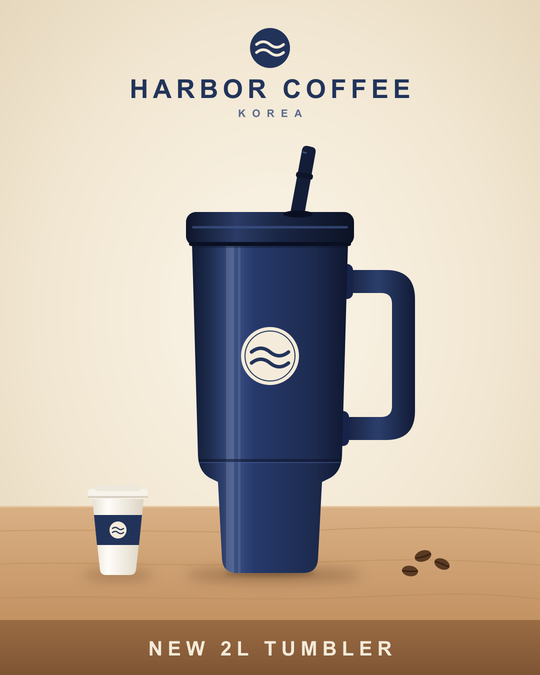
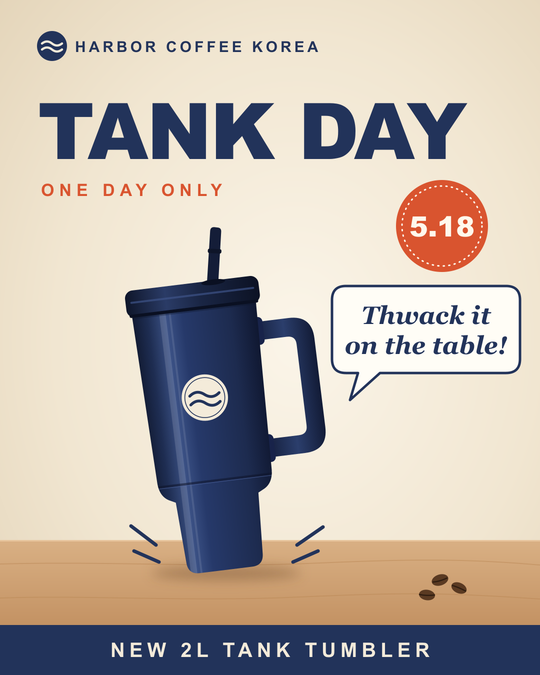
minor changes

diff --git a/src/data/cases/starbucks-korea.ts b/src/data/cases/starbucks-korea.ts
@@ -6,7 +6,7 @@ export const starbucksKorea: CaseFixture = {
   title: "Tank Day",
   subtitle: "Starbucks Korea, May 2026",
   kind: "incident-reconstruction",
-  dek: "A tumbler promotion with nothing wrong in the picture. The product name, the launch date and the slogan together evoked the Gwangju massacre.",
+  dek: "A tumbler promotion with nothing wrong in its imagery. The product name, the launch date and the slogan printed on it together evoked the Gwangju massacre.",
   input: {
     imageUrl: creativeUrl("starbucks-korea"),
     imageFilePath: null,
@@ -41,7 +41,7 @@ export const starbucksKorea: CaseFixture = {
   ],
   ownIncidentIds: ["starbucks-korea-tank-day-2026"],
   creativeNote:
-    "Synthetic reconstruction made for Second Look. This is not Starbucks' original creative. The brand, Harbor Coffee Korea, is fictional on purpose so the analyzer cannot recognize the incident by name and has to find the risk in the product name, launch date and slogan. The image is deliberately clean: no date, no 'tank', no military imagery.",
+    "Synthetic reconstruction made for Second Look. This is not Starbucks' original creative. The brand, Harbor Coffee Korea, is fictional on purpose so the analyzer cannot recognize the incident by name. Like the real promotion, the ad carries the Tank name, the 5.18 date and the slogan. The imagery itself is an ordinary tumbler on a table, with no military imagery, so the risk has to be read from the words and the date.",
   history: {
     whatHappened:
       "In May 2026 Starbucks Korea, majority-owned by Shinsegae Group's E-Mart, promoted a large tumbler size called the 'tank' with a 'Tank Day' on May 18 and the slogan 'Thwack it on the table!'. May 18 is the anniversary of the 1980 Gwangju Democratization Movement, when the military crushed pro-democracy protesters in Gwangju. The slogan echoed the 1987 police claim that student activist Park Jong-chul died after investigators struck a desk, not from torture. The promotion was cancelled within hours. Starbucks Korea CEO Sohn Jeong-hyun was fired. Shinsegae chairman Chung Yong-jin apologized on May 19 and again in a televised statement on May 26. Police opened an investigation after complaints from families of Gwangju victims.",

diff --git a/src/data/spot.ts b/src/data/spot.ts
@@ -1,9 +1,9 @@
 import type { SpotKey } from "@/lib/spot";
 
 /**
- * Answer keys for "Can you spot the issue?", in play order. The two picture risks come
- * first, so by the last case the player is hunting in the image, which is exactly where
- * the real failure wasn't.
+ * Answer keys for "Can you spot the issue?", in play order. The two planted risks come
+ * first; the real campaign comes last, where the imagery is ordinary and the risk is in
+ * the words and the date printed on it.
  */
 export const SPOT_KEYS: readonly SpotKey[] = [
   {
@@ -24,14 +24,21 @@ export const SPOT_KEYS: readonly SpotKey[] = [
   },
   {
     slug: "starbucks-korea",
-    regions: [],
+    // The words printed on the ad: the TANK DAY wordmark, the 5.18 badge, the slogan and the product line.
+    // The tumbler itself is ordinary, so it's left out.
+    regions: [
+      [0.065, 0.144, 0.805, 0.098],
+      [0.731, 0.265, 0.176, 0.139],
+      [0.613, 0.422, 0.352, 0.172],
+      [0.1, 0.93, 0.8, 0.065],
+    ],
     lines: [
       { field: "productName", excerpt: "Tank" },
       { field: "headline", excerpt: "Thwack" },
       { field: "bodyCopy", excerpt: "Tank Day, May 18" },
       { field: "launchDate" },
     ],
-    hint: "The picture is clean. Read the brief against the launch date.",
+    hint: "The tumbler itself is fine. Read the words the way someone in Korea would, and check the date.",
     answer: "The name, the date and the slogan.",
     why: "May 18 is the anniversary of the 1980 Gwangju Uprising, when martial-law troops sent tanks against protesters. “Thwack it on the table” echoes the police account of Park Jong-chul's death under torture in 1987. This is Starbucks Korea's real campaign, rebuilt: it was pulled within hours and the CEO was fired.",
   },

diff --git a/src/lib/spot.test.ts b/src/lib/spot.test.ts
@@ -43,9 +43,12 @@ describe("spot the issue", () => {
     expect(stepSpot(hat, caught, onCoat)).toBe(caught);
   });
 
-  it("treats the real failure as a clean picture with the risk in the brief", () => {
-    expect(isHit(tank, { kind: "point", x: 0.5, y: 0.5 })).toBe(false);
-    expect(missLine(tank, { kind: "point", x: 0.5, y: 0.5 })).toBe("Nothing wrong in the picture.");
+  it("finds the real failure in the words and date on the ad, not in the tumbler", () => {
+    expect(isHit(tank, { kind: "point", x: 0.4, y: 0.2 })).toBe(true); // TANK DAY
+    expect(isHit(tank, { kind: "point", x: 0.82, y: 0.34 })).toBe(true); // 5.18
+    expect(isHit(tank, { kind: "point", x: 0.78, y: 0.5 })).toBe(true); // the slogan
+    expect(isHit(tank, { kind: "point", x: 0.38, y: 0.6 })).toBe(false); // the tumbler
+    expect(missLine(tank, { kind: "point", x: 0.38, y: 0.6 })).toBe("Not there.");
     expect(isHit(tank, { kind: "line", field: "launchDate" })).toBe(true);
     expect(isHit(tank, { kind: "line", field: "headline" })).toBe(true);
     expect(missLine(hat, { kind: "line", field: "headline" })).toBe("The words are fine.");

diff --git a/src/components/landing/story.tsx b/src/components/landing/story.tsx
@@ -95,7 +95,7 @@ export function Story({ photos }: { photos: readonly HistoryPhoto[] }) {
         <div className="relative flex flex-col justify-center">
           <motion.div style={{ y: drift, rotate: tilt }} className="light-table mx-auto w-full max-w-[20rem] rounded-[10px] p-6 shadow-[0_30px_60px_-30px_rgba(0,0,0,0.5)]">
             <Image src={creativeUrl("starbucks-korea")} alt="Synthetic reconstruction of the Tank Day tumbler ad, with a fictional brand" width={1080} height={1350} className="w-full rounded-[2px]" sizes="320px" />
-            <p className="mt-3 text-[0.8rem] text-[var(--table-dim)]">Rebuilt with a fictional brand. The picture is clean.</p>
+            <p className="mt-3 text-[0.8rem] text-[var(--table-dim)]">Rebuilt with a fictional brand. The tumbler is fine; the words aren&rsquo;t.</p>
           </motion.div>
         </div>
       </div>

diff --git a/src/data/cases/creative-versions.ts b/src/data/cases/creative-versions.ts
@@ -9,7 +9,7 @@ export const CREATIVE_VERSIONS: Record<string, string> = {
   "green-hat": "eea3ee3e56",
   "pajero": "afbb3a0058",
   "rising-sun-rays": "88bcfcc3e9",
-  "starbucks-korea": "e028fc1d65",
+  "starbucks-korea": "fcac3adfbc",
   "vuela-en-cuero": "46d3df9c5c",
   "white-is-purity": "1192926c52",
 };
